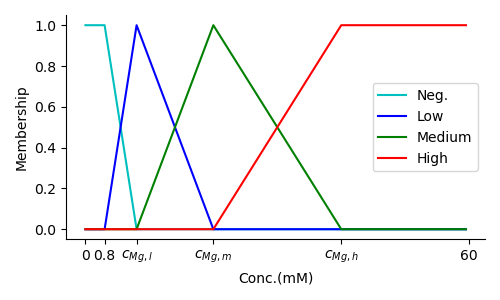
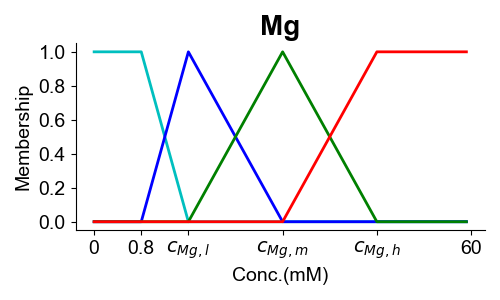
TGF and BMP fuzzy changed. A new param is added for TGF

diff --git a/scripts/fuzzy_plot.py b/scripts/fuzzy_plot.py
@@ -5,69 +5,79 @@ import matplotlib.pyplot as plt
 import pathlib as pl
 import os
 current_dir = pl.Path(__file__).parent.absolute()
-
+line_width  = 2
+axis_font = {'fontname':'Arial', 'size':'14'}
+title_font = {'fontname':'Arial', 'size':'20'}
+colors = {'neg':'c' , 'low':'b', 'medium':'g', 'high':'r'}
 def plot_BMP():
-    range = np.arange(0, 100, .5)
+    range = np.arange(0, 70, .5)
 
     # Generate fuzzy membership functions
-    neg = fuzz.trapmf(range, [0,0,0.5,10])
-    low = fuzz.trimf(range, [0.5,10,50])
-    medium = fuzz.trapmf(range, [10,50,250,500])
-    high = fuzz.trapmf(range, [250,500,2000,2000])
-
-    fake_neg = fuzz.trapmf(range, [0,0,0.5,10])
-    fake_low = fuzz.trimf(range, [0.5,10,20])
-    fake_medium = fuzz.trapmf(range, [10,20,30,50])
-    fake_high = fuzz.trapmf(range, [30,50,100,100])
+    neg = fuzz.trapmf(range, [0,0,0.008,0.5])
+    low = fuzz.trapmf(range, [0.008,0.5,10,50])
+    medium = fuzz.trapmf(range, [10,50,200,500])
+    high = fuzz.trapmf(range, [200,500,2000,2000])
+    fakes = {"0.008":10,"0.5":20,"10":30,"50":40,"200":50,"500":60,"2000":70}
+    fake_neg = fuzz.trapmf(range, [0,0,fakes["0.008"],fakes["0.5"]])
+    fake_low = fuzz.trapmf(range, [fakes["0.008"],fakes["0.5"],fakes["10"],fakes["50"]])
+    fake_medium = fuzz.trapmf(range, [fakes["10"],fakes["50"],fakes["200"],fakes["500"]])
+    fake_high = fuzz.trapmf(range, [fakes["200"],fakes["500"],fakes["2000"],fakes["2000"]])
 
     # Visualize these universes and membership functions
     fig, ax = plt.subplots(figsize=(5, 3))
-    ax.plot(range, fake_neg, 'c', linewidth=1.5, label='Neg.')
-    ax.plot(range, fake_low, 'b', linewidth=1.5, label='Low')
-    ax.plot(range, fake_medium, 'g', linewidth=1.5, label='Medium')
-    ax.plot(range, fake_high, 'r', linewidth=1.5, label='High')
+    ax.plot(range, fake_neg, colors['neg'], linewidth=line_width, label='Neg.')
+    ax.plot(range, fake_low,colors['low'] , linewidth=line_width, label='Low')
+    ax.plot(range, fake_medium, colors['medium'], linewidth=line_width, label='Medium')
+    ax.plot(range, fake_high, colors['high'], linewidth=line_width, label='High')
     #ax.set_title('BMP membership')
-    ax.set_xticks([0.5,10, 20, 30,50,100]) 
-    ax.set_xticklabels([0.5,10,50, 250,500,2000])
-    ax.set_ylabel('Membership')
-    ax.set_xlabel('Conc.($ng/ml$)')
+    ax.set_xticks([0,fakes["0.008"],fakes["0.5"],fakes["10"],fakes["50"], fakes["200"],fakes["500"],fakes["2000"]]) 
+    ax.set_xticklabels([0,0.008,0.5,10,50, 200,500,2000])
+    ax.set_ylabel('Membership',**axis_font)
+    ax.set_xlabel('Conc.($ng/ml$)',**axis_font)
     ax.legend()
 
-
+    for label in (ax.get_xticklabels() + ax.get_yticklabels()):
+        label.set_fontname(axis_font['fontname'])
+        label.set_fontsize(float(axis_font['size']))
+    ax.set_title('BMP',**title_font,fontweight='bold')
     # Turn off top/right axes
 
     ax.spines['top'].set_visible(False)
     ax.spines['right'].set_visible(False)
     ax.get_xaxis().tick_bottom()
     ax.get_yaxis().tick_left()
-
+    ax.get_legend().remove()
     plt.tight_layout()
     plt.savefig( os.path.join(current_dir,"BMP.png"))
 plot_BMP()
 
 def plot_TGF():
-    range = np.arange(0, 15, .025)
+    range = np.arange(0, 60, .025)
 
     # Generate fuzzy membership functions
-    neg = fuzz.trapmf(range, [0,0,0.015,0.025])
-    low = fuzz.trimf(range, [0.015,0.025,15])
-    high = fuzz.trimf(range, [0.025,15,15])
-    fake_neg = fuzz.trapmf(range, [0,0,1,3])
-    fake_low = fuzz.trimf(range, [1,3,15])
-    fake_high = fuzz.trimf(range, [3,15,15])
+    neg = fuzz.trapmf(range, [0,0,0.01,0.1])
+    low = fuzz.trapmf(range, [0.01,0.1,25,45])
+    high = fuzz.trapmf(range, [25,45,60,60])
+    fake_neg = fuzz.trapmf(range, [0,0,5,12])
+    fake_low = fuzz.trapmf(range, [5,12,40,55])
+    fake_high = fuzz.trapmf(range, [40,55,60,60])
 
 
     # Visualize these universes and membership functions
     fig, ax = plt.subplots(figsize=(5, 3))
-    ax.plot(range, fake_neg, 'c', linewidth=1.5, label='Neg.')
-    ax.plot(range, fake_low, 'b', linewidth=1.5, label='Low')
-    ax.plot(range, fake_high, 'r', linewidth=1.5, label='High')
+    ax.plot(range, fake_neg, colors['neg'], linewidth=line_width, label='Neg.')
+    ax.plot(range, fake_low, colors['low'], linewidth=line_width, label='Low')
+    ax.plot(range, fake_high, colors['high'], linewidth=line_width, label='High')
     #ax.set_title('BMP membership')
-    ax.set_xticks([0,1,3,15]) 
-    ax.set_xticklabels([0,0.015,0.025,15])
-    ax.set_ylabel('Membership')
-    ax.set_xlabel('Conc.($ng/ml$)')
+    ax.set_xticks([0,5,12,40,55,60]) 
+    ax.set_xticklabels([0,0.01,0.1,r'$c_{TGF,h}$',45,60])
+    ax.set_ylabel('Membership',**axis_font)
+    ax.set_xlabel('Conc.($ng/ml$)',**axis_font)
+    ax.set_title(r'TGF-$\beta$',**title_font,fontweight='bold')
     ax.legend()
+    for label in (ax.get_xticklabels() + ax.get_yticklabels()):
+        label.set_fontname(axis_font['fontname'])
+        label.set_fontsize(float(axis_font['size']))
 
 
     # Turn off top/right axes
@@ -81,7 +91,8 @@ def plot_TGF():
     plt.savefig( os.path.join(current_dir,"TGF.png"))
 plot_TGF()
 def plot_MG():
-    range = np.arange(0, 60, .5)
+    fakes = {0.8:5,5:10,15:20,40:30,60:40}
+    range = np.arange(0, 40, .5)
 
     # Generate fuzzy membership functions
     neg = fuzz.trapmf(range, [0,0,0.8,5])
@@ -89,37 +100,75 @@ def plot_MG():
     medium = fuzz.trimf(range, [5,15,40])
     high = fuzz.trapmf(range, [15,40,60,60])
 
-    fake_neg = fuzz.trapmf(range, [0,0,3,8])
-    fake_low = fuzz.trimf(range, [3,8,20])
-    fake_medium = fuzz.trimf(range, [8,20,40])
-    fake_high = fuzz.trapmf(range, [20,40,60,60])
+    fake_neg = fuzz.trapmf(range, [0,0,fakes[0.8],fakes[5]])
+    fake_low = fuzz.trimf(range, [fakes[0.8],fakes[5],fakes[15]])
+    fake_medium = fuzz.trimf(range, [fakes[5],fakes[15],fakes[40]])
+    fake_high = fuzz.trapmf(range, [fakes[15],fakes[40],fakes[60],fakes[60]])
 
 
     # Visualize these universes and membership functions
     fig, ax = plt.subplots(figsize=(5, 3))
 
-    ax.plot(range, fake_neg,'c', linewidth=1.5, label='Neg.')
-    ax.plot(range, fake_low, 'b', linewidth=1.5, label='Low')
-    ax.plot(range, fake_medium, 'g', linewidth=1.5, label='Medium')
-    ax.plot(range, fake_high, 'r', linewidth=1.5, label='High')
+    ax.plot(range, fake_neg,colors['neg'], linewidth=line_width, label='Neg.')
+    ax.plot(range, fake_low, colors['low'], linewidth=line_width, label='Low')
+    ax.plot(range, fake_medium, colors['medium'], linewidth=line_width, label='Medium')
+    ax.plot(range, fake_high, colors['high'], linewidth=line_width, label='High')
     #ax.set_title('BMP membership')
-    ax.set_xticks([0,3,8,20,40,60]) 
+    ax.set_xticks([0,fakes[0.8],fakes[5],fakes[15],fakes[40],fakes[60]]) 
     ax.set_xticklabels([0,0.8,r'$c_{Mg,l}$',r'$c_{Mg,m}$',r'$c_{Mg,h}$',60])
-    ax.set_ylabel('Membership')
-    ax.set_xlabel('Conc.(mM)')
+    ax.set_ylabel('Membership',**axis_font)
+    ax.set_xlabel('Conc.(mM)',**axis_font)
     ax.legend()
-
+    for label in (ax.get_xticklabels() + ax.get_yticklabels()):
+        label.set_fontname(axis_font['fontname'])
+        label.set_fontsize(float(axis_font['size']))
 
     # Turn off top/right axes
-
+    ax.get_legend().remove()
     ax.spines['top'].set_visible(False)
     ax.spines['right'].set_visible(False)
     ax.get_xaxis().tick_bottom()
     ax.get_yaxis().tick_left()
-
+    ax.set_title('Mg',**title_font,fontweight='bold')
     plt.tight_layout()
     plt.savefig( os.path.join(current_dir,"Mg.png"))
 plot_MG()
+
+
+def plot_CD():
+    range = np.arange(0, 1, 0.01)
+
+    # Generate fuzzy membership functions
+    low = fuzz.trapmf(range, [0,0,0.15, 0.33])
+    medium = fuzz.trapmf(range, [0.15, 0.33,0.6,0.78])
+    high = fuzz.trapmf(range, [0.6,0.78,1,1])
+
+
+    # Visualize these universes and membership functions
+    fig, ax = plt.subplots(figsize=(5, 3))
+
+    ax.plot(range, low, colors['low'], linewidth=line_width, label='Low')
+    ax.plot(range, medium, colors['medium'], linewidth=line_width, label='Medium')
+    ax.plot(range, high, colors['high'], linewidth=line_width, label='High')
+    #ax.set_title('BMP membership')
+    ax.set_xticks([0, 0.15, 0.33,0.6,0.78,1]) 
+    ax.set_xticklabels([0, 0.22, 0.33,r'$CD_{m,t}$',r'$CD_{h,t}$',1])
+    ax.set_ylabel('Membership',**axis_font)
+    ax.set_xlabel('Neighbor density',**axis_font)
+    ax.legend()
+    for label in (ax.get_xticklabels() + ax.get_yticklabels()):
+        label.set_fontname(axis_font['fontname'])
+        label.set_fontsize(float(axis_font['size']))
+    # Turn off top/right axes
+    ax.spines['top'].set_visible(False)
+    ax.spines['right'].set_visible(False)
+    ax.get_xaxis().tick_bottom()
+    ax.get_yaxis().tick_left()
+    ax.get_legend().remove()
+    ax.set_title('Cell density',**title_font,fontweight='bold')
+    plt.tight_layout()
+    plt.savefig( os.path.join(current_dir,"CD.png"))
+plot_CD()
 
 def plot_AE():
     range = np.arange(0, 1, .05)
@@ -131,8 +180,8 @@ def plot_AE():
     # Visualize these universes and membership functions
     fig, ax = plt.subplots(figsize=(5, 3))
 
-    ax.plot(range, low, 'b', linewidth=1.5, label='Low')
-    ax.plot(range, high, 'r', linewidth=1.5, label='High')
+    ax.plot(range, low, 'b', linewidth=line_width, label='Low')
+    ax.plot(range, high, 'r', linewidth=line_width, label='High')
     #ax.set_title('BMP membership')
     ax.set_xticks([0,1]) 
     ax.set_xticklabels([0,1])
@@ -151,34 +200,3 @@ def plot_AE():
     plt.tight_layout()
     plt.savefig( os.path.join(current_dir,"AE.png"))
 plot_AE()
-
-
-def plot_CD():
-    range = np.arange(0, 9, 1)
-
-    # Generate fuzzy membership functions
-    low = fuzz.trapmf(range, [0,0,1,2])
-    medium = fuzz.trapmf(range, [1,2,5,7])
-    high = fuzz.trapmf(range, [5,7,8,8])
-
-
-    # Visualize these universes and membership functions
-    fig, ax = plt.subplots(figsize=(5, 3))
-
-    ax.plot(range, low, 'b', linewidth=1.5, label='Low')
-    ax.plot(range, medium, 'g', linewidth=1.5, label='Medium')
-    ax.plot(range, high, 'r', linewidth=1.5, label='High')
-    #ax.set_title('BMP membership')
-    ax.set_xticks([0, 1, 2,5,7,8]) 
-    ax.set_xticklabels([0, 1, 2,r'$CD_{h}$-1',r'$CD_{h}$',8])
-    ax.set_ylabel('Membership')
-    ax.set_xlabel('Neighbor cells count')
-    ax.legend()
-    # Turn off top/right axes
-    ax.spines['top'].set_visible(False)
-    ax.spines['right'].set_visible(False)
-    ax.get_xaxis().tick_bottom()
-    ax.get_yaxis().tick_left()
-    plt.tight_layout()
-    plt.savefig( os.path.join(current_dir,"CD.png"))
-plot_CD()

diff --git a/include/fuzzy/fuzzy.h b/include/fuzzy/fuzzy.h
@@ -209,9 +209,9 @@ struct MSC_FUZZY:public base_model {
         };
         // TGF: 3 level
         auto INPUT_TGF = [&]() {
-            std::vector<double> neg{ 0,0, 0.015,.025 };
-            std::vector<double> low{ 0.015,.025,15 };
-            std::vector<double> high{ .025,15, 15 };
+            std::vector<double> neg{ 0,0, 0.01,0.1 };
+            std::vector<double> low{ 0.01,0.1, params["TGF_H_t"],45 };
+            std::vector<double> high{ params["TGF_H_t"],45, 60,60 };
             NORMALIZE(neg, params["TGF_max"]); NORMALIZE(low, params["TGF_max"]); NORMALIZE(high, params["TGF_max"]);
             check_range(neg); check_range(low); check_range(high);// checks that the parameters have the right ascending order; this is useful to control the calibration params
             InputVariable* input2 = new InputVariable;
@@ -221,17 +221,17 @@ struct MSC_FUZZY:public base_model {
             input2->setRange(0, 1);
             input2->setLockValueInRange(false);
             input2->addTerm(new Trapezoid("neg", neg[0], neg[1], neg[2], neg[3]));
-            input2->addTerm(new Triangle("low", low[0], low[1], low[2]));
-            input2->addTerm(new Triangle("high", high[0], high[1], high[2]));
+            input2->addTerm(new Trapezoid("low", low[0], low[1], low[2], low[3]));
+            input2->addTerm(new Trapezoid("high", high[0], high[1], high[2], high[3]));
             engine->addInputVariable(input2);
         };
         // BMP: 4 level
         auto INPUT_BMP = [&]() {
-            std::vector<double> neg{ 0,0, 0.5,10 };
-            std::vector<double> low{ 0.5,10, 50 };
-            std::vector<double> medium{ 10, 50, 250 };
-            std::vector<double> high{ 50, 250, 2000, 2000 };
-            NORMALIZE(neg, params["BMP_max"]); NORMALIZE(low, params["BMP_max"]); NORMALIZE(medium, params["BMP_max"]); NORMALIZE(high, params["BMP_max"]);
+            std::vector<double> neg{ 0,0, 0.008,0.5 };
+            std::vector<double> low{ 0.008,0.5, 10,50 };
+            std::vector<double> medium{ 10, 50, 200,500 };
+            std::vector<double> high{ 200,500, 2000, 2000 };
+            NORMALIZE(neg, 2000); NORMALIZE(low, 2000); NORMALIZE(medium, 2000); NORMALIZE(high, 2000);
             check_range(neg); check_range(low); check_range(high);// checks that the parameters have the right ascending order; this is useful to control the calibration params
             InputVariable* input2 = new InputVariable;
             input2->setName("BMP");
@@ -240,8 +240,8 @@ struct MSC_FUZZY:public base_model {
             input2->setRange(0, 1);
             input2->setLockValueInRange(false);
             input2->addTerm(new Trapezoid("neg", neg[0], neg[1], neg[2], neg[3]));
-            input2->addTerm(new Triangle("low", low[0], low[1], low[2]));
-            input2->addTerm(new Triangle("medium", medium[0], medium[1], medium[2]));
+            input2->addTerm(new Trapezoid("low", low[0], low[1], low[2], low[3]));
+            input2->addTerm(new Trapezoid("medium", medium[0], medium[1], medium[2], medium[3]));
             input2->addTerm(new Trapezoid("high", high[0], high[1], high[2], high[3]));
             engine->addInputVariable(input2);
         };

diff --git a/scripts/env.py b/scripts/env.py
@@ -15,9 +15,9 @@ from imports import myEnv,grid, grid3, update_progress
 from agents import MSC_,Dead_
 from patch import myPatch_
 from trainingdata import trainingData
-
+from params import parameters
 SETTINGS_PATH = os.path.join(current_file_path,'settings.json')
-PARAMS_PATH = os.path.join(current_file_path,'params.json')
+
 #TRAININGDATA_PATH = os.path.join(current_file_path,'trainingdata.json')
 
 # with open(TRAININGDATA_PATH) as file:
@@ -30,8 +30,7 @@ class ABM(myEnv):
 		#with open(SETTINGS_PATH) as file:
 			#self.settings = json.load(file)
 		#self.settings = ABM.scale(self.settings,self.settings["scale"]);
-		with open(PARAMS_PATH) as file:
-			self.params = json.load(file)
+		self.params = parameters
 		for key,value in free_params.items():
 			self.params[key] = value
 		self.set_params(self.params) # sends it to c++

diff --git a/scripts/free_params.py b/scripts/free_params.py
@@ -1,0 +1,28 @@
+
+free_parameters = {
+
+    ## the controller's params
+    "MG_L_t": [2,10],
+    "MG_M_t": [5,15],
+    ## un checked
+    "maturity_t": [0.6,1],
+    "a_Diff": [1,10],
+    "a_m_OC": [0.5,1],
+    "a_m_ALP": [0.5,1],
+    "c_weight":[0.0000006,0.000006],
+    "CD_H_t": [0.67,1],
+    "B_Mo": [0.00005,0.00017],
+    "a_Mo": [10,30],
+    "a_c_Mo": [5,20],
+    "b_BMP": [0.001,0.005],
+    "b_TGF": [0.01,0.05],
+    "B_Pr": [0.021,0.083],
+    "MG_H_t": [20,40],
+    "TGF_H_t": [2.5,25]
+    ## significant
+    
+
+    ##non significant
+    
+
+}

diff --git a/scripts/params.py b/scripts/params.py
@@ -1,0 +1,19 @@
+from free_params import free_parameters
+import numpy as np
+fixed_parameters = {
+  "BMP_max": 2000,
+  "TGF_max": 60,
+  "Mg_max": 60.0,
+  "BMP_0": 0.05,
+  "TGF_0": 14.2,
+  "B_rec": 0.003,
+  "w_mg_ph": 0.021,
+  "AE_a_coeff": 6.19,
+  "a_Pr_Mo": 1,
+  "pH_t": 9,
+  "B_Diff": 0.0014
+}
+free_parameters_averaged = {}
+for key,values in free_parameters.items(): # choose a middle point in the range of the values
+  free_parameters_averaged.update({key:np.mean(values)})
+parameters = {**fixed_parameters,**free_parameters_averaged}

diff --git a/scripts/test.py b/scripts/test.py
@@ -10,7 +10,7 @@ with open(medians_path) as file:
     medians = json.load(file)["medians"]
 
 scale_factor = trainingData["scale"]
-training_item = ABM.scale(trainingData["H2017_Mg60"],scale_factor)
+training_item = ABM.scale(trainingData["B2016_C"],scale_factor)
 
 try:
     obj = ABM(free_params = {},run_mode="test")
